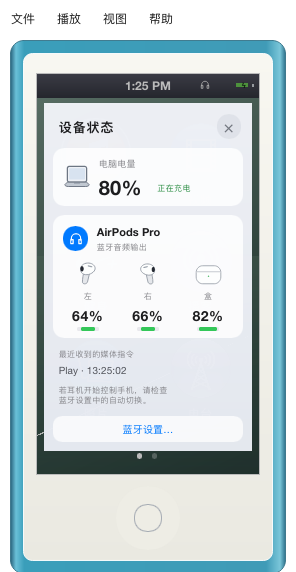
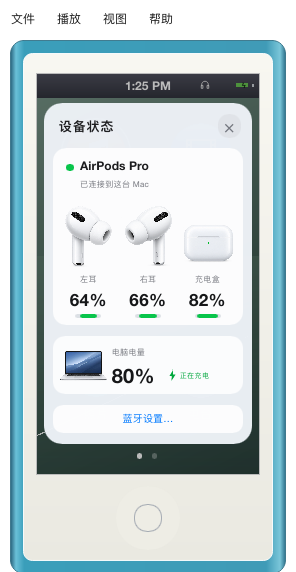
feat: implement approved rounded AirPods device panel

diff --git a/tests/native_status_ui.rs b/tests/native_status_ui.rs
@@ -7,8 +7,9 @@ use slint::{
     ComponentHandle, LogicalPosition,
     platform::{Key, PointerEventButton, WindowEvent},
 };
+use std::{cell::Cell, rc::Rc};
 
-fn click(ui: &AppWindow, x: f32, y: f32) {
+fn display_point(ui: &AppWindow, x: f32, y: f32) -> LogicalPosition {
     let size = ui.window().size().to_logical(ui.window().scale_factor());
     let scale = ui.get_display_scale();
     let height = ui.get_content_height();
@@ -17,12 +18,16 @@ fn click(ui: &AppWindow, x: f32, y: f32) {
     } else {
         432.0
     };
-    let position = LogicalPosition::new(
+    LogicalPosition::new(
         (size.width - 240.0 * scale) / 2.0 + x * scale,
         size.height - height
             + (height - body * scale) / 2.0
             + (y + if ui.get_device_mode() { 36.0 } else { 0.0 }) * scale,
-    );
+    )
+}
+
+fn click(ui: &AppWindow, x: f32, y: f32) {
+    let position = display_point(ui, x, y);
     ui.window().dispatch_event(WindowEvent::PointerPressed {
         position,
         button: PointerEventButton::Left,
@@ -31,6 +36,25 @@ fn click(ui: &AppWindow, x: f32, y: f32) {
         position,
         button: PointerEventButton::Left,
     });
+}
+
+fn assert_rounded_panel_corner(ui: &AppWindow) {
+    let snapshot = ui.window().take_snapshot().unwrap();
+    let brightness = |x, y| {
+        let point = display_point(ui, x, y);
+        let scale = ui.window().scale_factor();
+        let x = (point.x * scale).round() as usize;
+        let y = (point.y * scale).round() as usize;
+        let offset = 4 * (y * snapshot.width() as usize + x);
+        snapshot.as_bytes()[offset..offset + 3]
+            .iter()
+            .map(|value| u32::from(*value))
+            .sum::<u32>()
+    };
+    assert!(
+        brightness(9.0, 33.0) + 120 < brightness(30.0, 40.0),
+        "the outer corner must reveal the backdrop instead of a square surface"
+    );
 }
 
 fn frame(ui: &AppWindow, name: &str) -> Vec<u8> {
@@ -65,11 +89,19 @@ fn battery_levels_and_status_panel_work_in_both_desktop_modes() {
     ui.set_native_settings_available(true);
     ui.set_audio_output_name("AirPods Pro".into());
     ui.set_audio_output_headphones(true);
+    ui.set_audio_output_earbuds(true);
     ui.set_audio_output_wireless(true);
     ui.set_headphone_left_level(64);
     ui.set_headphone_right_level(66);
     ui.set_headphone_case_level(82);
     ui.set_last_media_command("Play · 13:25:02".into());
+    let settings_requests = Rc::new(Cell::new(0));
+    let requested = Rc::clone(&settings_requests);
+    ui.on_command(move |command| {
+        if command == "bluetooth_settings" {
+            requested.set(requested.get() + 1);
+        }
+    });
     for device in [false, true] {
         ui.set_device_mode(device);
         ui.window().set_size(slint::LogicalSize::new(
@@ -89,10 +121,21 @@ fn battery_levels_and_status_panel_work_in_both_desktop_modes() {
         assert_ne!(low, frame(&ui, &format!("charging-{device}")));
         click(&ui, 222.0, 12.0);
         assert!(ui.get_native_status_open());
+        assert_rounded_panel_corner(&ui);
         frame(&ui, &format!("panel-en-{device}"));
+        ui.set_battery_level(100);
+        ui.set_battery_charging(false);
+        frame(&ui, &format!("panel-on-power-{device}"));
+        ui.set_battery_level(80);
+        ui.set_battery_charging(true);
+        let previous_requests = settings_requests.get();
+        click(&ui, 120.0, 371.0);
+        assert_eq!(settings_requests.get(), previous_requests + 1);
+        assert!(ui.get_native_status_open());
         ui.global::<I18n>().set_language(1);
-
         frame(&ui, &format!("panel-zh-{device}"));
+        ui.global::<I18n>().set_language(2);
+        frame(&ui, &format!("panel-ja-{device}"));
         ui.window().dispatch_event(WindowEvent::KeyPressed {
             text: Key::Escape.into(),
         });
@@ -108,4 +151,36 @@ fn battery_levels_and_status_panel_work_in_both_desktop_modes() {
         assert!(!ui.get_native_status_open());
         ui.global::<I18n>().set_language(0);
     }
+
+    // A late/missing accessory reading must not fabricate percentages or a connection.
+    ui.set_native_status_open(true);
+    ui.set_headphone_left_level(0);
+    ui.set_headphone_case_level(-1);
+    frame(&ui, "panel-low-and-missing-case");
+    ui.set_headphone_left_level(-1);
+    ui.set_headphone_right_level(-1);
+    frame(&ui, "panel-airpods-no-readings");
+    ui.set_audio_output_earbuds(false);
+    ui.set_audio_output_headphones(false);
+    ui.set_audio_output_wireless(false);
+    ui.set_audio_output_name("MacBook Speakers".into());
+    frame(&ui, "panel-speakers");
+    ui.set_audio_output_headphones(true);
+    ui.set_audio_output_wireless(true);
+    ui.set_headphone_single_level(58);
+    ui.set_audio_output_name("Bluetooth Headphones".into());
+    frame(&ui, "panel-single-battery");
+    ui.set_audio_output_earbuds(true);
+    ui.set_headphone_single_level(-1);
+    ui.set_audio_output_name("梓辰的 AirPods Pro · 一个很长的设备名称".into());
+    ui.global::<I18n>().set_language(1);
+    frame(&ui, "panel-long-name");
+    ui.set_audio_output_earbuds(false);
+    ui.set_audio_output_headphones(false);
+    ui.set_audio_output_wireless(false);
+    ui.set_audio_output_name("".into());
+    ui.set_battery_level(-1);
+    frame(&ui, "panel-no-output");
+    click(&ui, 207.0, 56.0);
+    assert!(!ui.get_native_status_open());
 }

diff --git a/src/app/i18n.rs b/src/app/i18n.rs
@@ -45,6 +45,16 @@ const CATALOG: &[(&str, &str, &str)] = &[
     ("On Power", "已接电源", "電源に接続"),
     ("Device Status", "设备状态", "デバイスの状態"),
     ("Device Status…", "设备状态…", "デバイスの状態…"),
+    ("Left Ear", "左耳", "左耳"),
+    ("Right Ear", "右耳", "右耳"),
+    ("Charging Case", "充电盒", "充電ケース"),
+    (
+        "Connected to this Mac",
+        "已连接到这台 Mac",
+        "この Mac に接続中",
+    ),
+    ("System Audio Output", "系统音频输出", "システム音声出力"),
+    ("Choose an audio output", "请选择音频输出", "音声出力を選択"),
     ("Computer Battery", "电脑电量", "本体バッテリー"),
     ("Battery unavailable", "暂无电量信息", "バッテリー情報なし"),
     ("Charging", "正在充电", "充電中"),

diff --git a/src/app/controller/native_status.rs b/src/app/controller/native_status.rs
@@ -95,6 +95,14 @@ impl Controller {
         ui.set_audio_output_wireless(status.output.bluetooth);
         ui.set_native_settings_available(cfg!(target_os = "macos"));
         let battery = &status.accessory;
+        let output_name = status.output.name.to_lowercase();
+        ui.set_audio_output_earbuds(
+            status.output.bluetooth
+                && ((output_name.contains("airpods") && !output_name.contains("max"))
+                    || battery.left.is_some()
+                    || battery.right.is_some()
+                    || battery.case.is_some()),
+        );
         ui.set_headphone_left_level(battery.left.map_or(-1, i32::from));
         ui.set_headphone_right_level(battery.right.map_or(-1, i32::from));
         ui.set_headphone_case_level(battery.case.map_or(-1, i32::from));

diff --git a/docs/DESKTOP_DEVICES.md b/docs/DESKTOP_DEVICES.md
@@ -2,21 +2,25 @@
 
 Click the battery at the right of the nano status bar, or choose **View → Device Status…**. The desktop panel shows the computer's battery percentage and charging/power state, the macOS default audio output, and available left/right/case battery levels for that Bluetooth output. A headphone indicator appears in the status bar while headphones or Bluetooth audio are selected. Unknown values display a dash or “Battery unavailable”; they never default to full. Screen Mode and Device Mode share the same data and panel. iOS is unchanged.
 
-The panel follows the compact grouping, quiet backgrounds, rounded cards and device illustrations in Apple's [macOS AirPods battery panel](https://support.apple.com/en-us/119912) and [AirPods connection card](https://support.apple.com/it-it/100494). Illustrations are local SVGs. This is a Slint surface with translucency and a shadow, not AppKit's native Liquid Glass material; the existing iPod shell and other screens retain their style.
+The panel implements the approved concept: a large AirPods card with separate left/right/case illustrations and battery bars, a compact secondary computer-battery card, and a Bluetooth Settings button. It follows the quiet backgrounds and grouping in Apple's [macOS AirPods battery panel](https://support.apple.com/en-us/119912) and [AirPods connection card](https://support.apple.com/it-it/100494). The decorative, transparent device renders were made with the built-in image generator; [asset provenance and final prompts](../assets/images/desktop-devices/README.md) are stored with the PNGs. All percentages, bars, labels and connection state remain live Slint elements. This surface uses translucency and a shadow; it does not use AppKit's Liquid Glass material. The existing iPod shell is preserved.
+
+The outer panel uses a 20-unit rounded, translucent surface. A rendered corner check verifies that the backdrop remains visible at the rounded corners in both desktop modes; the previous gradient-filled surface failed this check in the software renderer. Cards and the settings button have matching rounded edges.
+
+![Desktop device-status panel with sample data](previews/desktop-device-status.png)
 
 ## Native data and playback
 
 - Public IOKit power-source APIs read only the internal computer battery. CoreAudio identifies the default output by UID, transport and name. These reads run on a separate worker every two seconds; CoreAudio route notifications trigger an earlier refresh.
 - A separate worker reads `system_profiler SPBluetoothDataType -json` at most once every 30 seconds for the current Bluetooth output, or after its identity changes. Only connected devices whose Bluetooth address matches the CoreAudio UID contribute battery readings. It does not connect/pair devices, open a microphone or use private Bluetooth selectors. The probe has a five-second deadline and a bounded response. macOS can omit individual values or return cached values, particularly for a closed case.
 - Headphone/Bluetooth output changing to speakers pauses the current music, podcast or video, including a loading source. This conservative policy also pauses a manual switch from headphones to speakers. Selecting/reconnecting headphones never resumes playback automatically. The notification and controller polling add a small delay; this is not an audio-thread mute guarantee.
-- Existing macOS MediaPlayer metadata and command registrations remain available while music/podcasts are paused. Play and Pause are idempotent, and Pause is now accepted during Loading. The panel shows the last media command delivered to this app.
+- Existing macOS MediaPlayer metadata and command registrations remain available while music/podcasts are paused. Play and Pause are idempotent, and Pause is accepted during Loading. Received media commands remain in the playback diagnostics log; the main panel contains only device information and settings.
 - On other desktop operating systems native data remains unavailable; macOS APIs and subprocesses are not called. No Bluetooth connection preferences are changed by the app.
 
 ## AirPods resuming music on an iPhone
 
 This symptom has been reported but has **not yet been reproduced end to end with the physical AirPods button on this build**. Native callback tests verify that the paused item retains its metadata, the Play command stays enabled and its copied handler still delivers Play. That does not establish which device Apple chooses for a real button press.
 
-After starting this build, select the AirPods as the Mac's output and play/pause a track. Open Device Status, then press the AirPods once. If “Last Media Command” changes to Play/Play-Pause, the Mac delivered the command to this app. If it stays unchanged while the iPhone starts playing, no command reached this app; inspect the Mac's output and the AirPods connection settings before attributing that event to the Rust transport.
+After starting this build, select the AirPods as the Mac's output and play/pause a track, then press the AirPods once. A new `macos_remote_command_received` record in `playback.jsonl` confirms that macOS delivered a command to this app. If no record appears while the iPhone starts playing, inspect the Mac's output and the AirPods connection settings before attributing that event to the Rust transport.
 
 Desktop playback diagnostics also record native media-state changes, received commands and the output-change pause in the configuration directory's `playback.jsonl`. Disk writes run on the existing bounded diagnostics worker; logs rotate at 256 KiB with one previous file. These new records contain control/state names, not song titles, Bluetooth addresses, serial numbers, credentials or lyrics.
 
@@ -24,4 +28,4 @@ Apple documents [automatic switching and how to disable it](https://support.appl
 
 ## Verification
 
-Focused native/controller tests cover valid and missing capacities, address matching, disconnected-device rejection, native snapshot/watch lifetime, retained paused metadata/Play registration, and music/podcast/video output-change pause behavior. Software-renderer tests exercise battery-level changes, both desktop modes, English/Chinese layouts, opening from the battery, Escape and backdrop dismissal. On 2026-10-22, read-only probes on the development Mac identified the selected AirPods by address and retrieved computer, left, right and case percentages. Physical earbud presses, cross-device arbitration and audible route transitions still require manual acceptance.
+Focused native/controller tests cover valid and missing capacities, address matching, disconnected-device rejection, native snapshot/watch lifetime, retained paused metadata/Play registration, and music/podcast/video output-change pause behavior. Software-renderer tests exercise battery-level changes, both desktop modes, English/Chinese/Japanese layouts, settings-button dispatch, opening from the battery, Escape, close-button and backdrop dismissal. Rendered cases also cover missing/zero capacities, long names, speakers and single-battery accessories. All four decorative PNGs have genuine alpha transparency; their display crops retain the products and soft shadows. On 2026-10-22, read-only probes on the development Mac identified the selected AirPods by address and retrieved computer, left, right and case percentages. Physical earbud presses, cross-device arbitration and audible route transitions still require manual acceptance.

diff --git a/docs/MACOS_INTEGRATION.md b/docs/MACOS_INTEGRATION.md
@@ -1,6 +1,6 @@
 # macOS integration
 
-The desktop status bar displays native computer battery/charging state and a headphone indicator. Click the battery for the current system output, available AirPods battery levels and the last received media command. See [desktop devices and battery](DESKTOP_DEVICES.md) for the data sources, Apple design references and the AirPods automatic-switching investigation.
+The desktop status bar displays native computer battery/charging state and a headphone indicator. Click the battery for the current system output and available AirPods battery levels, shown in the approved device-card design. Media-command diagnostics remain in the playback log. See [desktop devices and battery](DESKTOP_DEVICES.md) for the data sources, design references and the AirPods automatic-switching investigation.
 
 The player starts above other ordinary application windows by default. Settings → Always on Top, or the checked View → Always on Top menu item, toggles this preference and saves it across restarts. This uses Slint's native window level and is independent of AeroSpace's floating layout. It does not override macOS system overlays or other applications' special window levels.
 

diff --git a/assets/images/desktop-devices/README.md b/assets/images/desktop-devices/README.md
@@ -4,6 +4,8 @@ These transparent PNGs were generated with the built-in image_gen tool on 2026-1
 
 The four separate assets were visually inspected, copied into this repository, and checked for alpha and dimensions. The original generated files are retained in Codex's image history. No third-party screenshot or product photo is embedded in these assets.
 
+The source PNGs are 1254 × 1254 with alpha ranging from 0 to 255. `ui/desktop-status.slint` crops their transparent padding at display time so left/right illustrations have comparable visual size. The files themselves are preserved; update those display crops if the source dimensions or product framing change.
+
 ## Final prompts
 
 ### airpod-left.png
